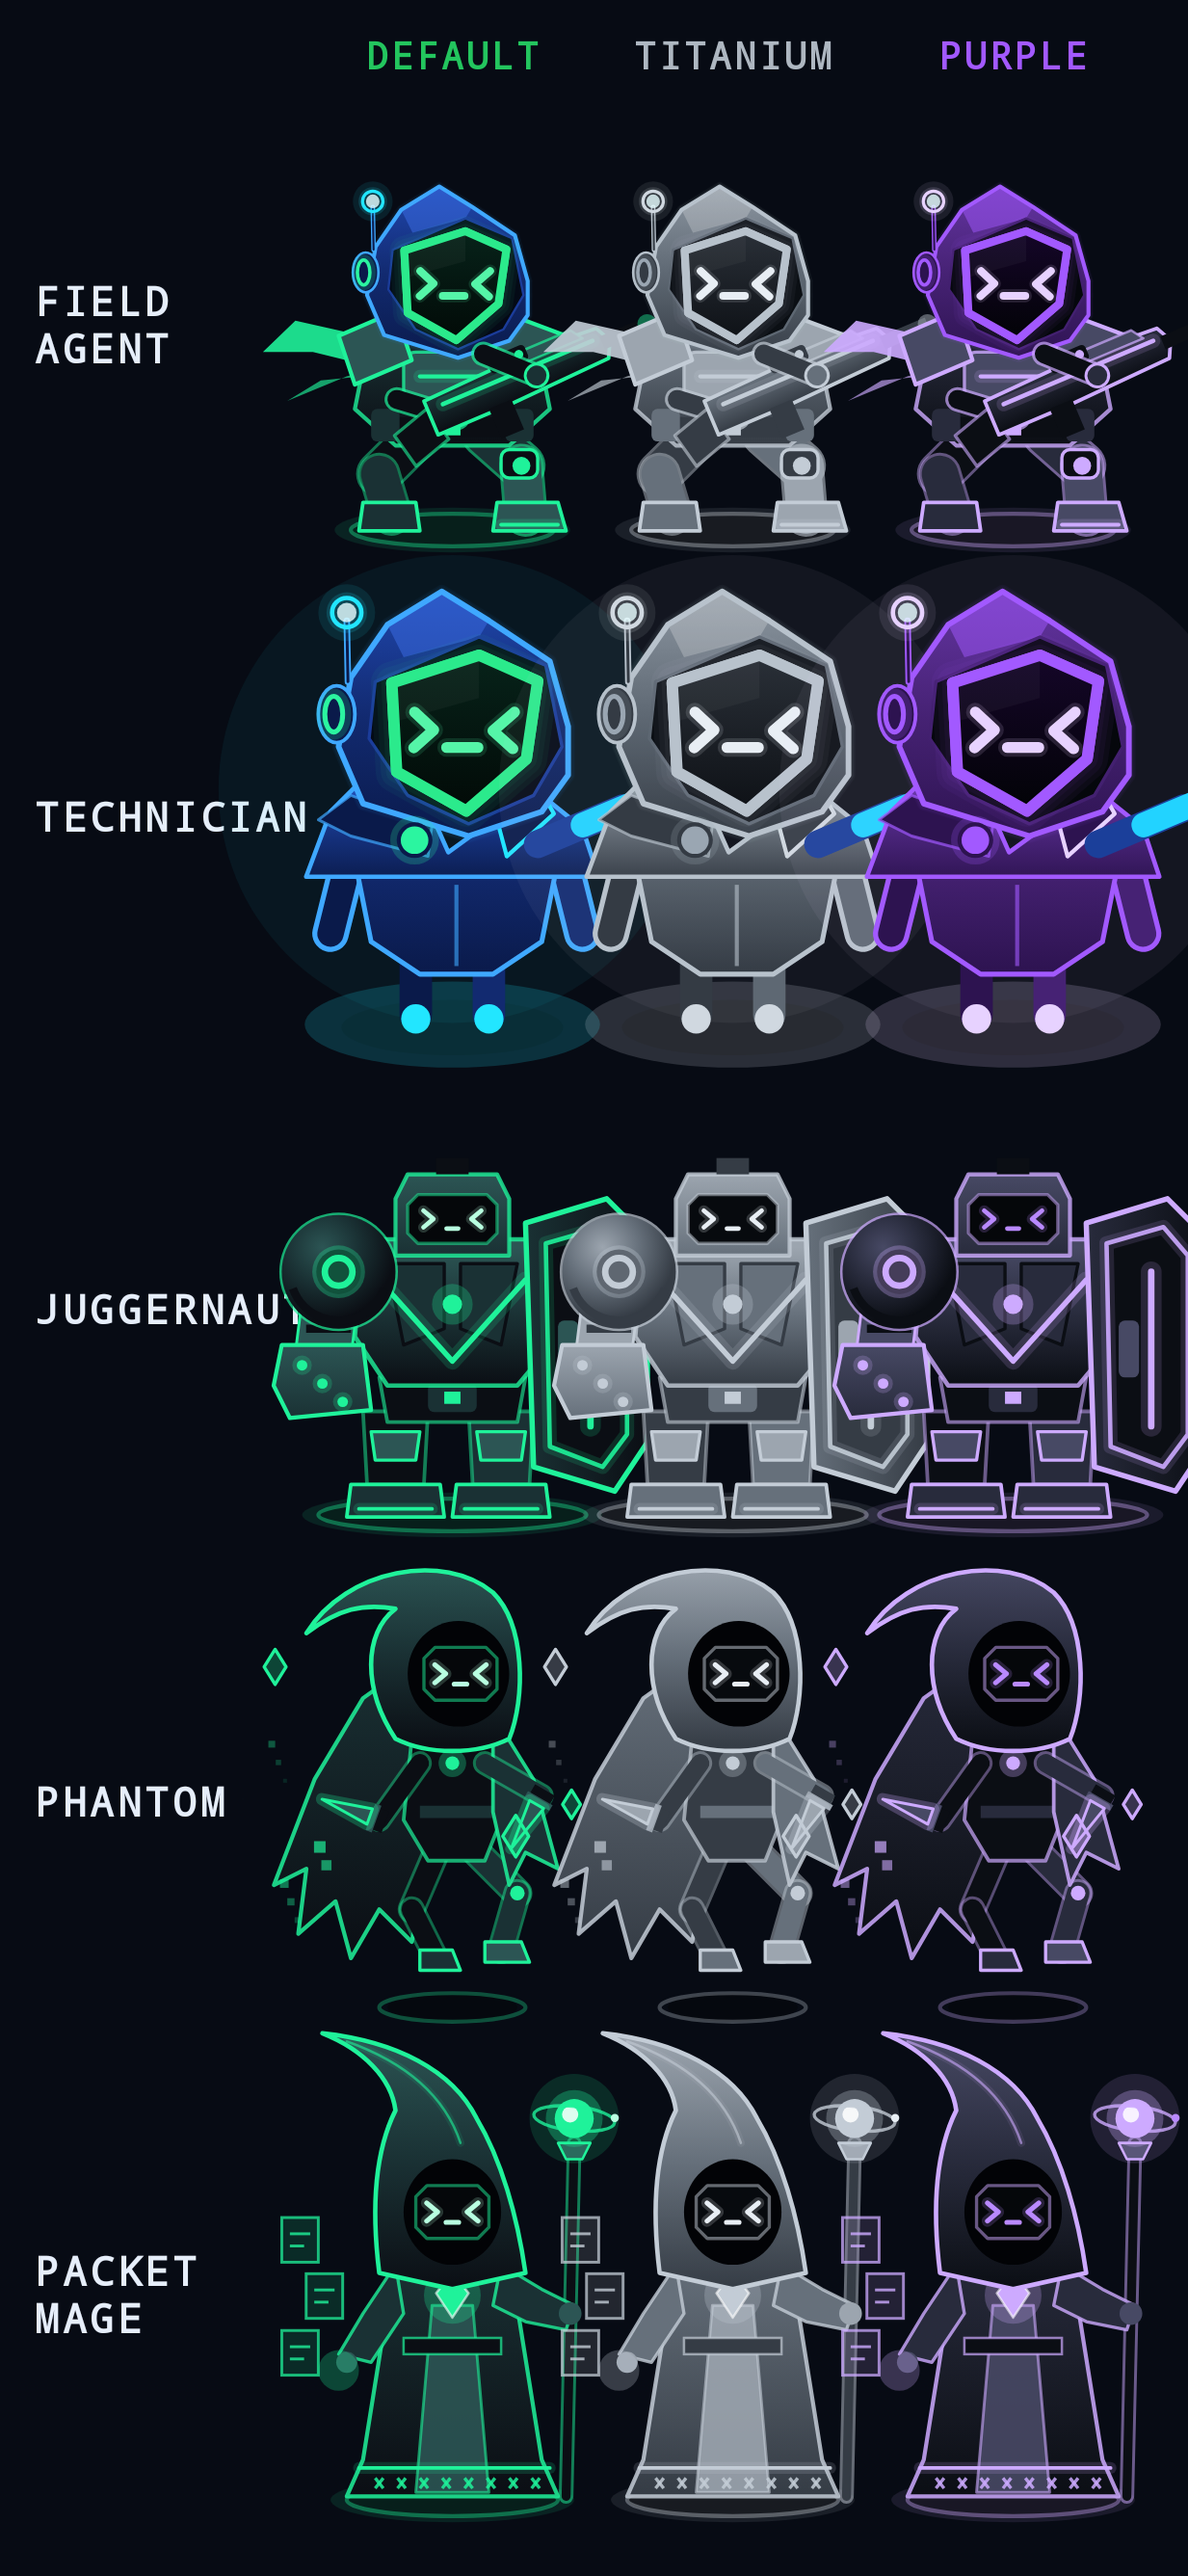
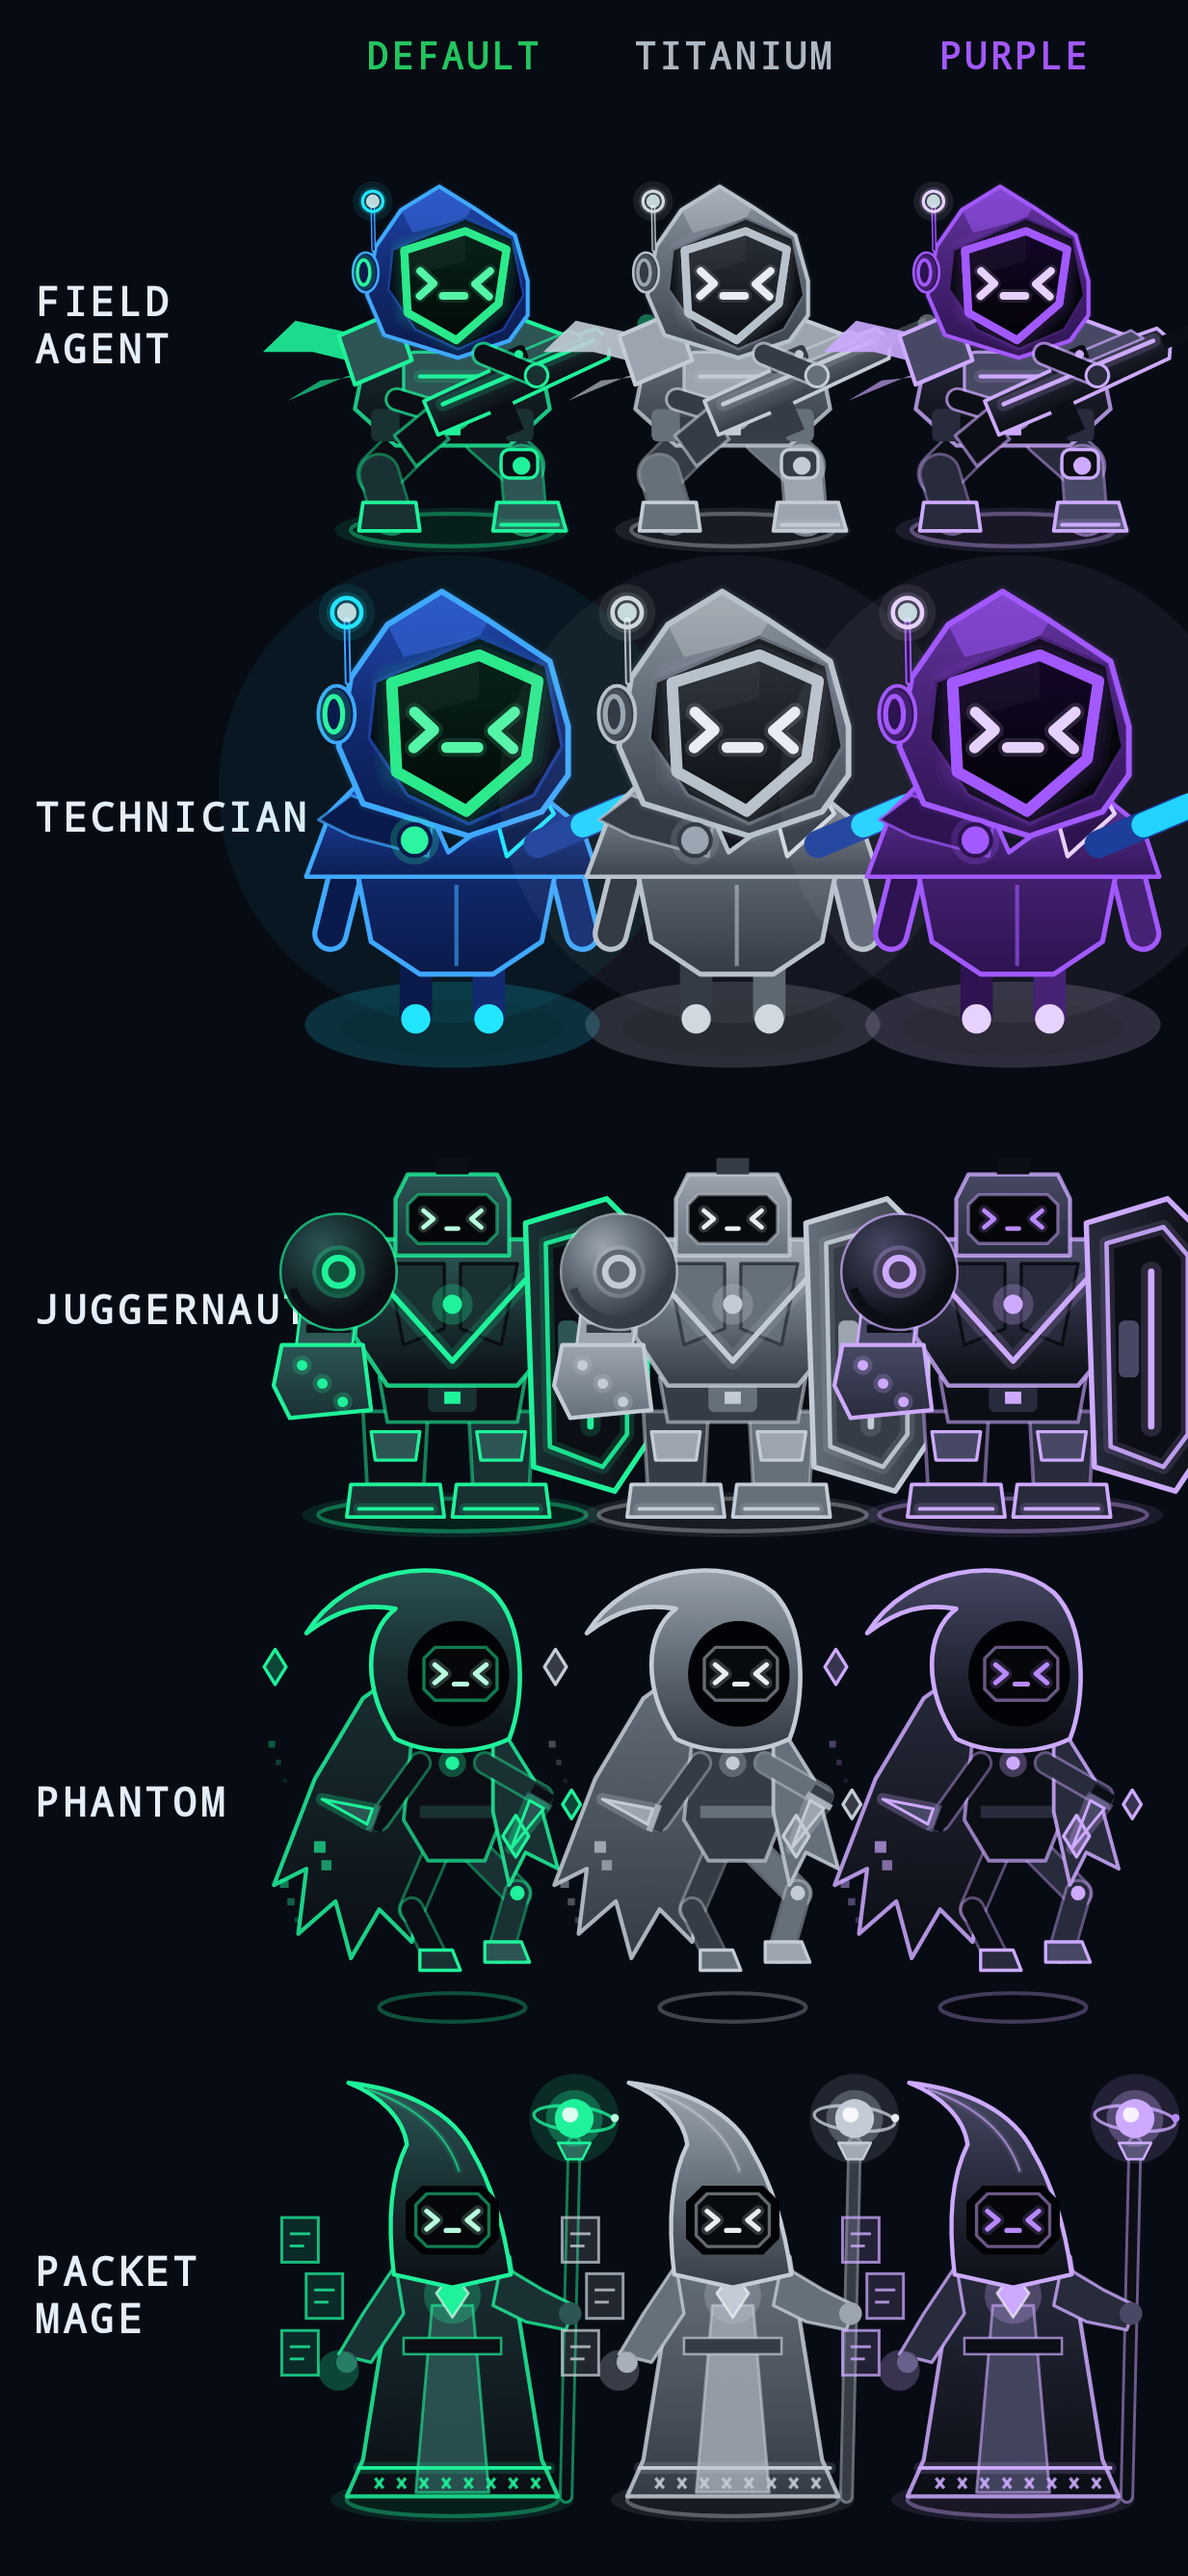
0.17.4: Packet Mage hood shrunk, octagon opening around the visor
Claude-Session: https://claude.ai/code/session_01J4fYSi9rfQR62SLnfyrDCN

Changed region(s): [[0.7397, 0.7763, 0.9246, 0.9005], [0.5239, 0.7763, 0.678, 0.9005], [0.2774, 0.7763, 0.4315, 0.9005]]

diff --git a/app/src/main/java/com/cyberoperative/game/ui/game/ClassFigures.kt b/app/src/main/java/com/cyberoperative/game/ui/game/ClassFigures.kt
@@ -429,20 +429,26 @@ internal object ClassFigures {
                 fillStroke(poly(64f, 60f, 74f, 66f, 82f, 70f, 80f, 76f, 70f, 74f, 62f, 70f), l.plateMid, l.trim.copy(alpha = 0.8f), 0.8f)
                 drawCircle(l.plateLight, 2.8f, Offset(81f, 72f))
                 // The tall peaked hood with the visor.
-                // Smooth peaked hood whose whole top leans back (owner, 2026-10-11).
-                path.reset()
-                path.moveTo(34f, 62f)
-                path.cubicTo(32f, 46f, 33f, 32f, 38f, 22f)
-                path.cubicTo(37f, 14f, 30f, 7f, 20f, 3f)
-                path.cubicTo(38f, 5f, 52f, 12f, 58f, 24f)
-                path.cubicTo(64f, 34f, 68f, 48f, 70f, 62f)
-                path.lineTo(52f, 66f)
-                path.close()
-                fillStroke(path, Brush.verticalGradient(listOf(l.plateLight, l.plateMid, l.plateDark), startY = 3f, endY = 66f), l.trim, 1.1f)
-                path.reset(); path.moveTo(54f, 30f); path.cubicTo(50f, 18f, 40f, 10f, 26f, 5f)
-                neonPath(path, l.trim.copy(alpha = 0.6f), 0.6f, pulse)
-                drawOval(Color(0xFF020306), Offset(40f, 34f), Size(24f, 26f))
-                visorFace(52f, 47f, 18f, 13f, l, pulse)
+                // Smooth peaked hood whose whole top leans back (owner, 2026-10-11), shrunk to 80%
+                // around the collar; the opening is an octagon that hugs the face visor.
+                withTransform({ scale(0.8f, 0.8f, Offset(52f, 64f)) }) {
+                    path.reset()
+                    path.moveTo(34f, 62f)
+                    path.cubicTo(32f, 46f, 33f, 32f, 38f, 22f)
+                    path.cubicTo(37f, 14f, 30f, 7f, 20f, 3f)
+                    path.cubicTo(38f, 5f, 52f, 12f, 58f, 24f)
+                    path.cubicTo(64f, 34f, 68f, 48f, 70f, 62f)
+                    path.lineTo(52f, 66f)
+                    path.close()
+                    fillStroke(path, Brush.verticalGradient(listOf(l.plateLight, l.plateMid, l.plateDark), startY = 3f, endY = 66f), l.trim, 1.3f)
+                    path.reset(); path.moveTo(54f, 30f); path.cubicTo(50f, 18f, 40f, 10f, 26f, 5f)
+                    neonPath(path, l.trim.copy(alpha = 0.6f), 0.7f, pulse)
+                }
+                // Octagonal opening one step outside the visor.
+                val ow = 11.5f; val oh = 8.5f; val ok = 4f; val oy = 49f
+                drawPath(poly(52f - ow + ok, oy - oh, 52f + ow - ok, oy - oh, 52f + ow, oy - oh + ok, 52f + ow, oy + oh - ok,
+                    52f + ow - ok, oy + oh, 52f - ow + ok, oy + oh, 52f - ow, oy + oh - ok, 52f - ow, oy - oh + ok), Color(0xFF020306))
+                visorFace(52f, 49f, 18f, 13f, l, pulse)
             }
         }
     }

diff --git a/CHANGELOG.md b/CHANGELOG.md
@@ -1,5 +1,10 @@
 # Changelog
 
+## 0.17.4 (versionCode 60) — 2026-10-11 · Smaller Mage hood, octagon opening
+### Changed (owner)
+- **Packet Mage:** the whole hood is shrunk to 80% around the collar, keeping its back-leaning
+  peak. The round opening is replaced by an octagon that hugs the >_< face visor.
+
 ## 0.17.3 (versionCode 59) — 2026-10-11 · Packet Mage hood reshaped
 ### Changed (owner)
 - **Packet Mage:** back to the smooth peaked hood, now with the whole top leaning well back like a

diff --git a/DEVELOPMENT_STATE.md b/DEVELOPMENT_STATE.md
@@ -6,7 +6,7 @@ _Read this first in every new session, then README, GAME_DESIGN, BACKLOG, CHANGE
 
 | | |
 |---|---|
-| Version | 0.17.3 (versionCode 59) |
+| Version | 0.17.4 (versionCode 60) |
 | Milestone | M1 vertical slice ✅ · M2 first boss & systems ✅ (pending device playtest) |
 | Last completed | 0.9.5 fullscreen HUD redesign (ui/game/GameHud.kt, buff chips in UpgradeBar.kt) |
 | Current task | Waiting on owner: body design (CO-094) and Power-Up Board picks (CO-090) |

diff --git a/README.md b/README.md
@@ -16,7 +16,7 @@ Play **co-op** with a friend (friend codes, invites, live two-player runs; see `
 
 ## Project status
 
-`0.17.3` — Boss Expansion Vol. 1 under way; 0.16.0 balance pass (pooled mastery, bigger Packet Flood) (see `DEVELOPMENT_STATE.md` and `docs/BOSS_EXPANSION_LOG.md`).
+`0.17.4` — Boss Expansion Vol. 1 under way; 0.16.0 balance pass (pooled mastery, bigger Packet Flood) (see `DEVELOPMENT_STATE.md` and `docs/BOSS_EXPANSION_LOG.md`).
 
 | | |
 |---|---|
